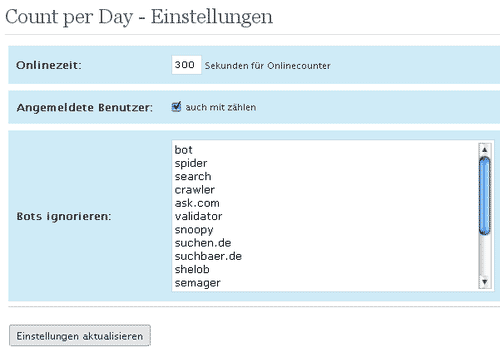
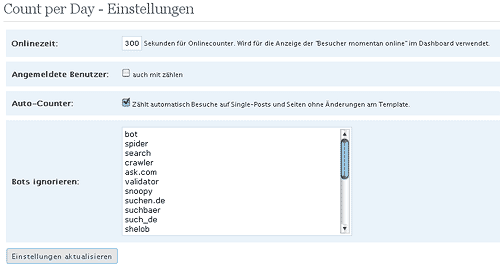
git-svn-id: https://plugins.svn.wordpress.org/count-per-day/trunk@62898 b8457f37-d9ea-0310-8a92-e5e31aec5664

diff --git a/counter-options.php b/counter-options.php
@@ -71,7 +71,7 @@ switch($mode) {
 		<table class="form-table">
 		<tr>
 			<th nowrap="nowrap" scope="row" style="vertical-align:middle;"><?php _e('Online time', 'cpd') ?>:</th>
-			<td><input class="code" type="text" name="cpd_onlinetime" size="3" value="<?php echo get_option('cpd_onlinetime'); ?>" /> <?php _e('Seconds for online counter', 'cpd') ?></td>
+			<td><input class="code" type="text" name="cpd_onlinetime" size="3" value="<?php echo get_option('cpd_onlinetime'); ?>" /> <?php _e('Seconds for online counter. Used for "Visitors online" on dashboard page.', 'cpd') ?></td>
 		</tr><tr>
 			<th nowrap="nowrap" scope="row" style="vertical-align:middle;"><?php _e('Loged on Users', 'cpd') ?>:</th>
 			<td><input type="checkbox" name="cpd_user" id="cpd_user" <?php if(get_option('cpd_user')==1) echo 'checked="checked"'; ?> /> <label for="cpd_user"><?php _e('count too', 'cpd') ?></label></td>
